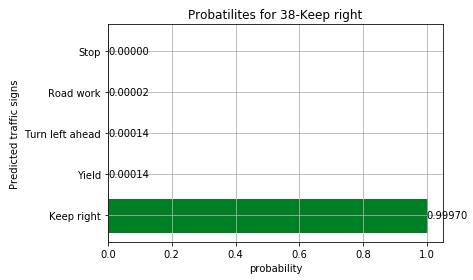
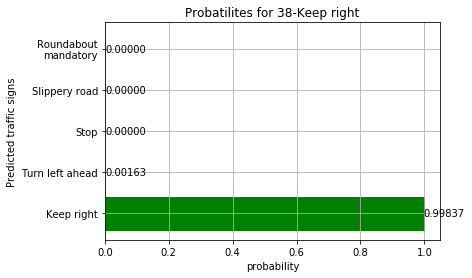
Updated images and descriptions with latest model training/evaluation results.

Changed region(s): [[0.0, 0.0288, 1.0, 0.9784]]

diff --git a/writeup/writeup.md b/writeup/writeup.md
@@ -208,7 +208,7 @@ First I tried the standard Le-Net-5 model (see `LeNet()`function) with the pre-p
 
 In order to improve the generalization of the model I introduced 50% dropout units in each fully connected layer (see `LeNetDropout()`function). These units reduced the overfitting of the model. The dropout units increased the test set accuracy by +1.5% and the accuracy on the five new traffic sign images by +20%. Nevertheless, the +20% is not really appreciable because the softmax probability of the 60 km/h electronic speed limit is just at 0.38469. The model is still unsure.
 
-In my final model I increased the depth of each convolutional and fully connected layer in order to further reduce the overfitting. By the increased depth, the model is more capable to handle complex structures in the images. These model changes improved the test set accuracy by +1.8% and the +20% for the five new traffic sign images. Especially the softmax probability of the 60 km/h electronic speed limit could be increased from 0.38469 to 0.4806 (see chapter top 5 softmax probabilities).
+In my final model I increased the depth of each convolutional and fully connected layer in order to further reduce the overfitting. By the increased depth, the model is more capable to handle complex structures in the images. These model changes improved the test set accuracy by +2.8%.
 
 Further improvements will be possible by more complex models. Nevertheless, the training of these models will need a GPU. I trained my model on my local MacBookPro from 2010 (i5 2.53 GHz, 8 GB RAM) on just a CPU which takes roughly 45-60 minutes.
 
@@ -216,11 +216,11 @@ Model Results:
 
 | Model                   | Le-Net-5 | Le-Net-5 with Dropout | Deeper Le-Net-5 with Dropout |
 |:------------------------|---------:|----------------------:|-----------------------------:|
-| epochs till stagnation  |       17 |                    50 |                           13 |
-| training set accuracy   |    99.9% |                 99.8% |                        99.7% |
-| validation set accuracy |    94.7% |                 95.5% |                        97.1% |
-| test set accuracy       |    93.3% |                 94.8% |                        95.1% |
-| 5 new signs accuracy    |    80.0% |                100.0% |                       100.0% |
+| epochs till stagnation  |       17 |                    50 |                           25 |
+| training set accuracy   |    99.9% |                 99.8% |                        99.9% |
+| validation set accuracy |    94.7% |                 95.5% |                        97.8% |
+| test set accuracy       |    93.3% |                 94.8% |                        96.1% |
+| 5 new signs accuracy    |    80.0% |                100.0% |                        80.0% |
 
 The diagrams below gives an overview about the loss and accuracy over the epochs for the standard Le-Net-5 (blue lines), the Le-Net-5 with two 50% dropout units (red lines) and the deep Le-Net-5 with two 50% dropout units (green lines).
 
@@ -253,23 +253,23 @@ Here are the results of the prediction:
 
 | Image                   | Prediction              | Probability |
 |:------------------------|:------------------------|------------:|
-| 03-Speed limit (60km/h) | 03-Speed limit (60km/h) |      48.06% |
+| 03-Speed limit (60km/h) | 14-Stop                 |      99.82% |
 | 01-Speed limit (30km/h) | 01-Speed limit (30km/h) |     100.00% |
 | 03-Speed limit (60km/h) | 03-Speed limit (60km/h) |     100.00% |
-| 38-Keep right           | 38-Keep right           |      99.97% |
+| 38-Keep right           | 38-Keep right           |      99.84% |
 | 13-Yield                | 13-Yield                |     100.00% |
 
-The model was able to correctly guess 5 of the 5 traffic signs, which gives an accuracy of 100%. The probability of the first 60 km/h speed limit sign is pretty low compared to the other signs. This may be due to the black sign background and the white characters, which is not part in the training set.
+The model was able to correctly guess 4 of the 5 traffic signs, which gives an accuracy of 80.0%. The first 60 km/h speed limit sign is hard to predict, because it is not part of the training set. The colors are inverted (black sign background and the white characters).
 
 ### Top 5 Softmax Probabilities
 The following bar charts give an overview about the top 5 softmax values for each traffic sign prediction.
 #### Sign: "Speed limit 60 km/h electronic"
-For the first image, the model is pretty unsure that this is a 60 km/h speed limit sign (probability of 0.38469). The top five soft max probabilities were
+For the first image, the model is wrong and predicted the 60 km/h speed limit sign as stop sign (probability of 0.99816). The top five soft max probabilities were
 
 ![probabilities sign 60 km/h electronic][image7]
 
 #### Sign: "Speed limit 30 km/h"
-For the second image, the model is relatively sure that this is a 30 km/h speed limit sign (probability of 0.99988). The top five soft max probabilities were
+For the second image, the model is relatively sure that this is a 30 km/h speed limit sign (probability of 1.0). The top five soft max probabilities were
 
 ![probabilities sign 30 km/h][image8]
 
@@ -279,7 +279,7 @@ For the third image, the model is absolutely sure that this is a 60 km/h speed l
 ![probabilities sign 60 km/h][image9]
 
 #### Sign: "Keep right"
-For the fourth image, the model is relatively sure that this is a keep right sign (probability of 0.99485). The top five soft max probabilities were
+For the fourth image, the model is relatively sure that this is a keep right sign (probability of 0.99837). The top five soft max probabilities were
 
 ![probabilities sign keep right][image10]
 
@@ -306,49 +306,49 @@ The table below shows the precision, the recall and the f1-Score for all signs i
 
 | ID | Signname                                           | Precision |   Recall | F-Score | Support |
 |:---|:---------------------------------------------------|----------:|---------:|--------:|--------:|
-| 0  | Speed limit (20km/h)                               |   98.11 % |  86.67 % |    0.92 |      60 |
-| 1  | Speed limit (30km/h)                               |   94.87 % |  97.64 % |    0.96 |     720 |
-| 2  | Speed limit (50km/h)                               |   95.61 % |  98.80 % |    0.97 |     750 |
-| 3  | Speed limit (60km/h)                               |   98.33 % |  91.33 % |    0.95 |     450 |
-| 4  | Speed limit (70km/h)                               |   97.98 % |  95.76 % |    0.97 |     660 |
-| 5  | Speed limit (80km/h)                               |   89.86 % |  94.29 % |    0.92 |     630 |
-| 6  | End of speed limit (80km/h)                        |   98.55 % |  90.67 % |    0.94 |     150 |
-| 7  | Speed limit (100km/h)                              |   92.80 % |  97.33 % |    0.95 |     450 |
-| 8  | Speed limit (120km/h)                              |   96.74 % |  92.44 % |    0.95 |     450 |
-| 9  | No passing                                         |   95.02 % |  99.38 % |    0.97 |     480 |
-| 10 | No passing for vehicles over 3.5 metric tons       |   98.19 % |  98.48 % |    0.98 |     660 |
-| 11 | Right-of-way at the next intersection              |   90.25 % |  94.76 % |    0.92 |     420 |
-| 12 | Priority road                                      |   97.00 % |  98.26 % |    0.98 |     690 |
-| 13 | Yield                                              |   99.17 % |  99.72 % |    0.99 |     720 |
-| 14 | Stop                                               |  100.00 % |  95.93 % |    0.98 |     270 |
-| 15 | No vehicles                                        |   96.59 % |  94.29 % |    0.95 |     210 |
-| 16 | Vehicles over 3.5 metric tons prohibited           |   98.68 % | 100.00 % |    0.99 |     150 |
-| 17 | No entry                                           |   98.89 % |  98.89 % |    0.99 |     360 |
-| 18 | General caution                                    |   92.39 % |  90.26 % |    0.91 |     390 |
-| 19 | Dangerous curve to the left                        |   83.33 % |  91.67 % |    0.87 |      60 |
-| 20 | Dangerous curve to the right                       |   92.05 % |  90.00 % |    0.91 |      90 |
-| 21 | Double curve                                       |   92.65 % |  70.00 % |    0.80 |      90 |
-| 22 | Bumpy road                                         |   88.89 % |  86.67 % |    0.88 |     120 |
-| 23 | Slippery road                                      |   92.05 % |  92.67 % |    0.92 |     150 |
-| 24 | Road narrows on the right                          |   83.10 % |  65.56 % |    0.73 |      90 |
-| 25 | Road work                                          |   96.81 % |  94.79 % |    0.96 |     480 |
-| 26 | Traffic signals                                    |   90.67 % |  75.56 % |    0.82 |     180 |
-| 27 | Pedestrians                                        |   54.10 % |  55.00 % |    0.55 |      60 |
-| 28 | Children crossing                                  |   97.35 % |  98.00 % |    0.98 |     150 |
-| 29 | Bicycles crossing                                  |   89.11 % | 100.00 % |    0.94 |      90 |
-| 30 | Beware of ice/snow                                 |   88.00 % |  73.33 % |    0.80 |     150 |
-| 31 | Wild animals crossing                              |   92.47 % | 100.00 % |    0.96 |     270 |
-| 32 | End of all speed and passing limits                |   90.91 % | 100.00 % |    0.95 |      60 |
-| 33 | Turn right ahead                                   |   88.14 % |  99.05 % |    0.93 |     210 |
-| 34 | Turn left ahead                                    |   92.25 % |  99.17 % |    0.96 |     120 |
-| 35 | Ahead only                                         |   98.23 % |  99.49 % |    0.99 |     390 |
-| 36 | Go straight or right                               |   88.19 % |  93.33 % |    0.91 |     120 |
-| 37 | Go straight or left                                |   91.07 % |  85.00 % |    0.88 |      60 |
-| 38 | Keep right                                         |   96.23 % |  96.23 % |    0.96 |     690 |
-| 39 | Keep left                                          |   91.75 % |  98.89 % |    0.95 |      90 |
-| 40 | Roundabout mandatory                               |   92.50 % |  82.22 % |    0.87 |      90 |
-| 41 | End of no passing                                  |   78.57 % |  73.33 % |    0.76 |      60 |
-| 42 | End of no passing by vehicles over 3.5 metric tons |   95.65 % |  73.33 % |    0.83 |      90 |
+| 0  | Speed limit (20km/h)                               |   98.36 % | 100.00 % |    0.99 |      60 |
+| 1  | Speed limit (30km/h)                               |   98.88 % |  97.78 % |    0.98 |     720 |
+| 2  | Speed limit (50km/h)                               |   96.62 % |  99.20 % |    0.98 |     750 |
+| 3  | Speed limit (60km/h)                               |   97.43 % |  92.67 % |    0.95 |     450 |
+| 4  | Speed limit (70km/h)                               |   99.54 % |  98.33 % |    0.99 |     660 |
+| 5  | Speed limit (80km/h)                               |   89.31 % |  96.83 % |    0.93 |     630 |
+| 6  | End of speed limit (80km/h)                        |   96.67 % |  96.67 % |    0.97 |     150 |
+| 7  | Speed limit (100km/h)                              |   95.18 % |  96.44 % |    0.96 |     450 |
+| 8  | Speed limit (120km/h)                              |   97.73 % |  95.56 % |    0.97 |     450 |
+| 9  | No passing                                         |   98.56 % |  99.79 % |    0.99 |     480 |
+| 10 | No passing for vehicles over 3.5 metric tons       |   99.23 % |  97.88 % |    0.99 |     660 |
+| 11 | Right-of-way at the next intersection              |   91.14 % |  95.48 % |    0.93 |     420 |
+| 12 | Priority road                                      |   99.71 % |  98.26 % |    0.99 |     690 |
+| 13 | Yield                                              |   99.58 % |  99.58 % |    1.00 |     720 |
+| 14 | Stop                                               |   98.49 % |  96.67 % |    0.98 |     270 |
+| 15 | No vehicles                                        |   97.65 % |  99.05 % |    0.98 |     210 |
+| 16 | Vehicles over 3.5 metric tons prohibited           |  100.00 % |  99.33 % |    1.00 |     150 |
+| 17 | No entry                                           |   99.72 % |  97.78 % |    0.99 |     360 |
+| 18 | General caution                                    |   97.69 % |  86.67 % |    0.92 |     390 |
+| 19 | Dangerous curve to the left                        |   77.92 % | 100.00 % |    0.88 |      60 |
+| 20 | Dangerous curve to the right                       |   90.70 % |  86.67 % |    0.89 |      90 |
+| 21 | Double curve                                       |   94.92 % |  62.22 % |    0.75 |      90 |
+| 22 | Bumpy road                                         |   99.03 % |  85.00 % |    0.91 |     120 |
+| 23 | Slippery road                                      |   82.78 % |  99.33 % |    0.90 |     150 |
+| 24 | Road narrows on the right                          |   85.42 % |  91.11 % |    0.88 |      90 |
+| 25 | Road work                                          |   96.11 % |  97.92 % |    0.97 |     480 |
+| 26 | Traffic signals                                    |   82.22 % |  82.22 % |    0.82 |     180 |
+| 27 | Pedestrians                                        |   67.19 % |  71.67 % |    0.69 |      60 |
+| 28 | Children crossing                                  |   94.87 % |  98.67 % |    0.97 |     150 |
+| 29 | Bicycles crossing                                  |   94.68 % |  98.89 % |    0.97 |      90 |
+| 30 | Beware of ice/snow                                 |   91.94 % |  76.00 % |    0.83 |     150 |
+| 31 | Wild animals crossing                              |   94.70 % |  99.26 % |    0.97 |     270 |
+| 32 | End of all speed and passing limits                |   93.65 % |  98.33 % |    0.96 |      60 |
+| 33 | Turn right ahead                                   |   95.00 % |  99.52 % |    0.97 |     210 |
+| 34 | Turn left ahead                                    |   86.23 % |  99.17 % |    0.92 |     120 |
+| 35 | Ahead only                                         |   98.71 % |  98.46 % |    0.99 |     390 |
+| 36 | Go straight or right                               |   97.54 % |  99.17 % |    0.98 |     120 |
+| 37 | Go straight or left                                |  100.00 % |  98.33 % |    0.99 |      60 |
+| 38 | Keep right                                         |   98.11 % |  97.97 % |    0.98 |     690 |
+| 39 | Keep left                                          |   98.81 % |  92.22 % |    0.95 |      90 |
+| 40 | Roundabout mandatory                               |   94.59 % |  77.78 % |    0.85 |      90 |
+| 41 | End of no passing                                  |   80.00 % |  93.33 % |    0.86 |      60 |
+| 42 | End of no passing by vehicles over 3.5 metric tons |   94.74 % |  80.00 % |    0.87 |      90 |
 
 The bar chart summarizes the f1-score over all traffic sign classes. Green bars show classes with a f1-score >0.9 which means a good recall and precision value, yellow bars with a f1-score <=0.9 and red bars with a f1-score <=0.8. The prediction performance of the yellow and red traffic sign classes are not sufficient.
 
@@ -363,9 +363,9 @@ The normalized confusion matrix summarizes the table above. The x-axis indicates
 ## Visualization of the CNN Layers
 The following list describes the features maps of the layer 1 activation relu. The activation unit is calculated for the keep right traffic sign.
 
-- Feature Map 0 seems to look for round shapes and the arrow head
-- Feature Map 1 seems to look for round shapes with an right arrow
-- Feature Map 3 and 5 seems to look for round shapes with more "clutter/noise" in the background
+- Feature Map 0 seems to look for round shapes and the arrow line
+- Feature Map 13 seems to look for round shapes with an right arrow head
+- Feature Map 2, 7, 11 and 14 seem to look for round shapes with more "clutter/noise" in the background
 
 **CNN Layer 1**
 
